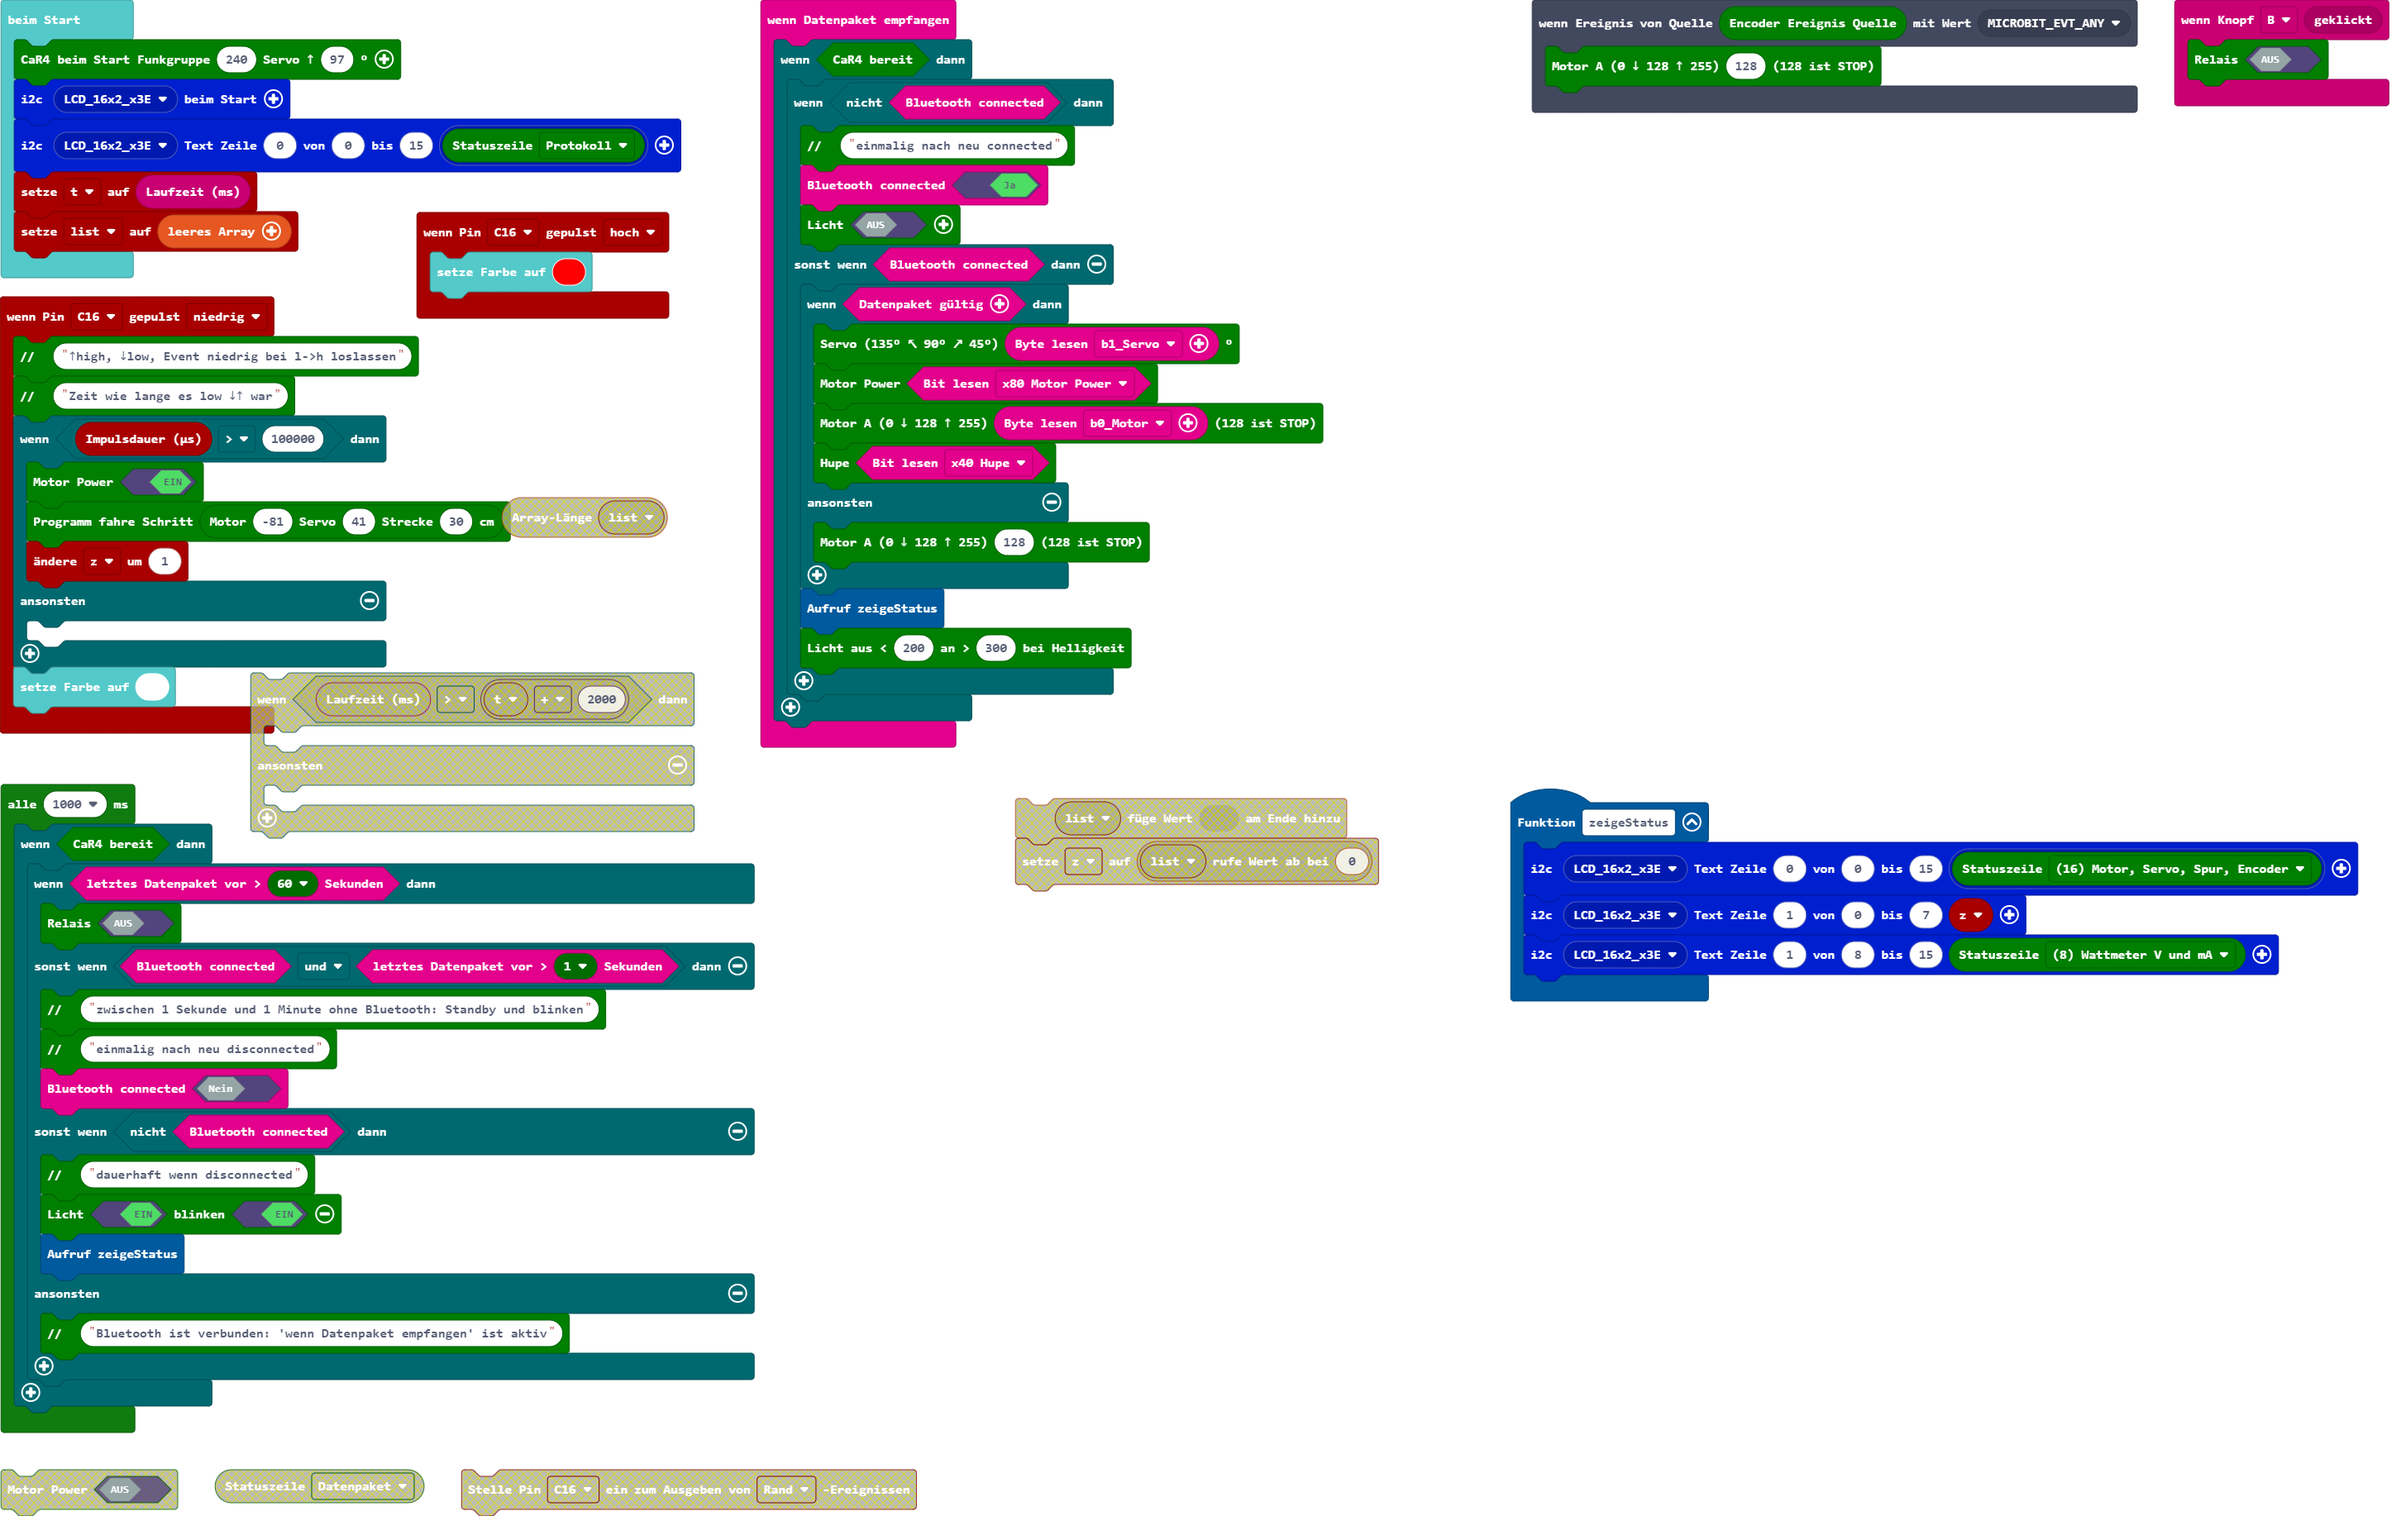
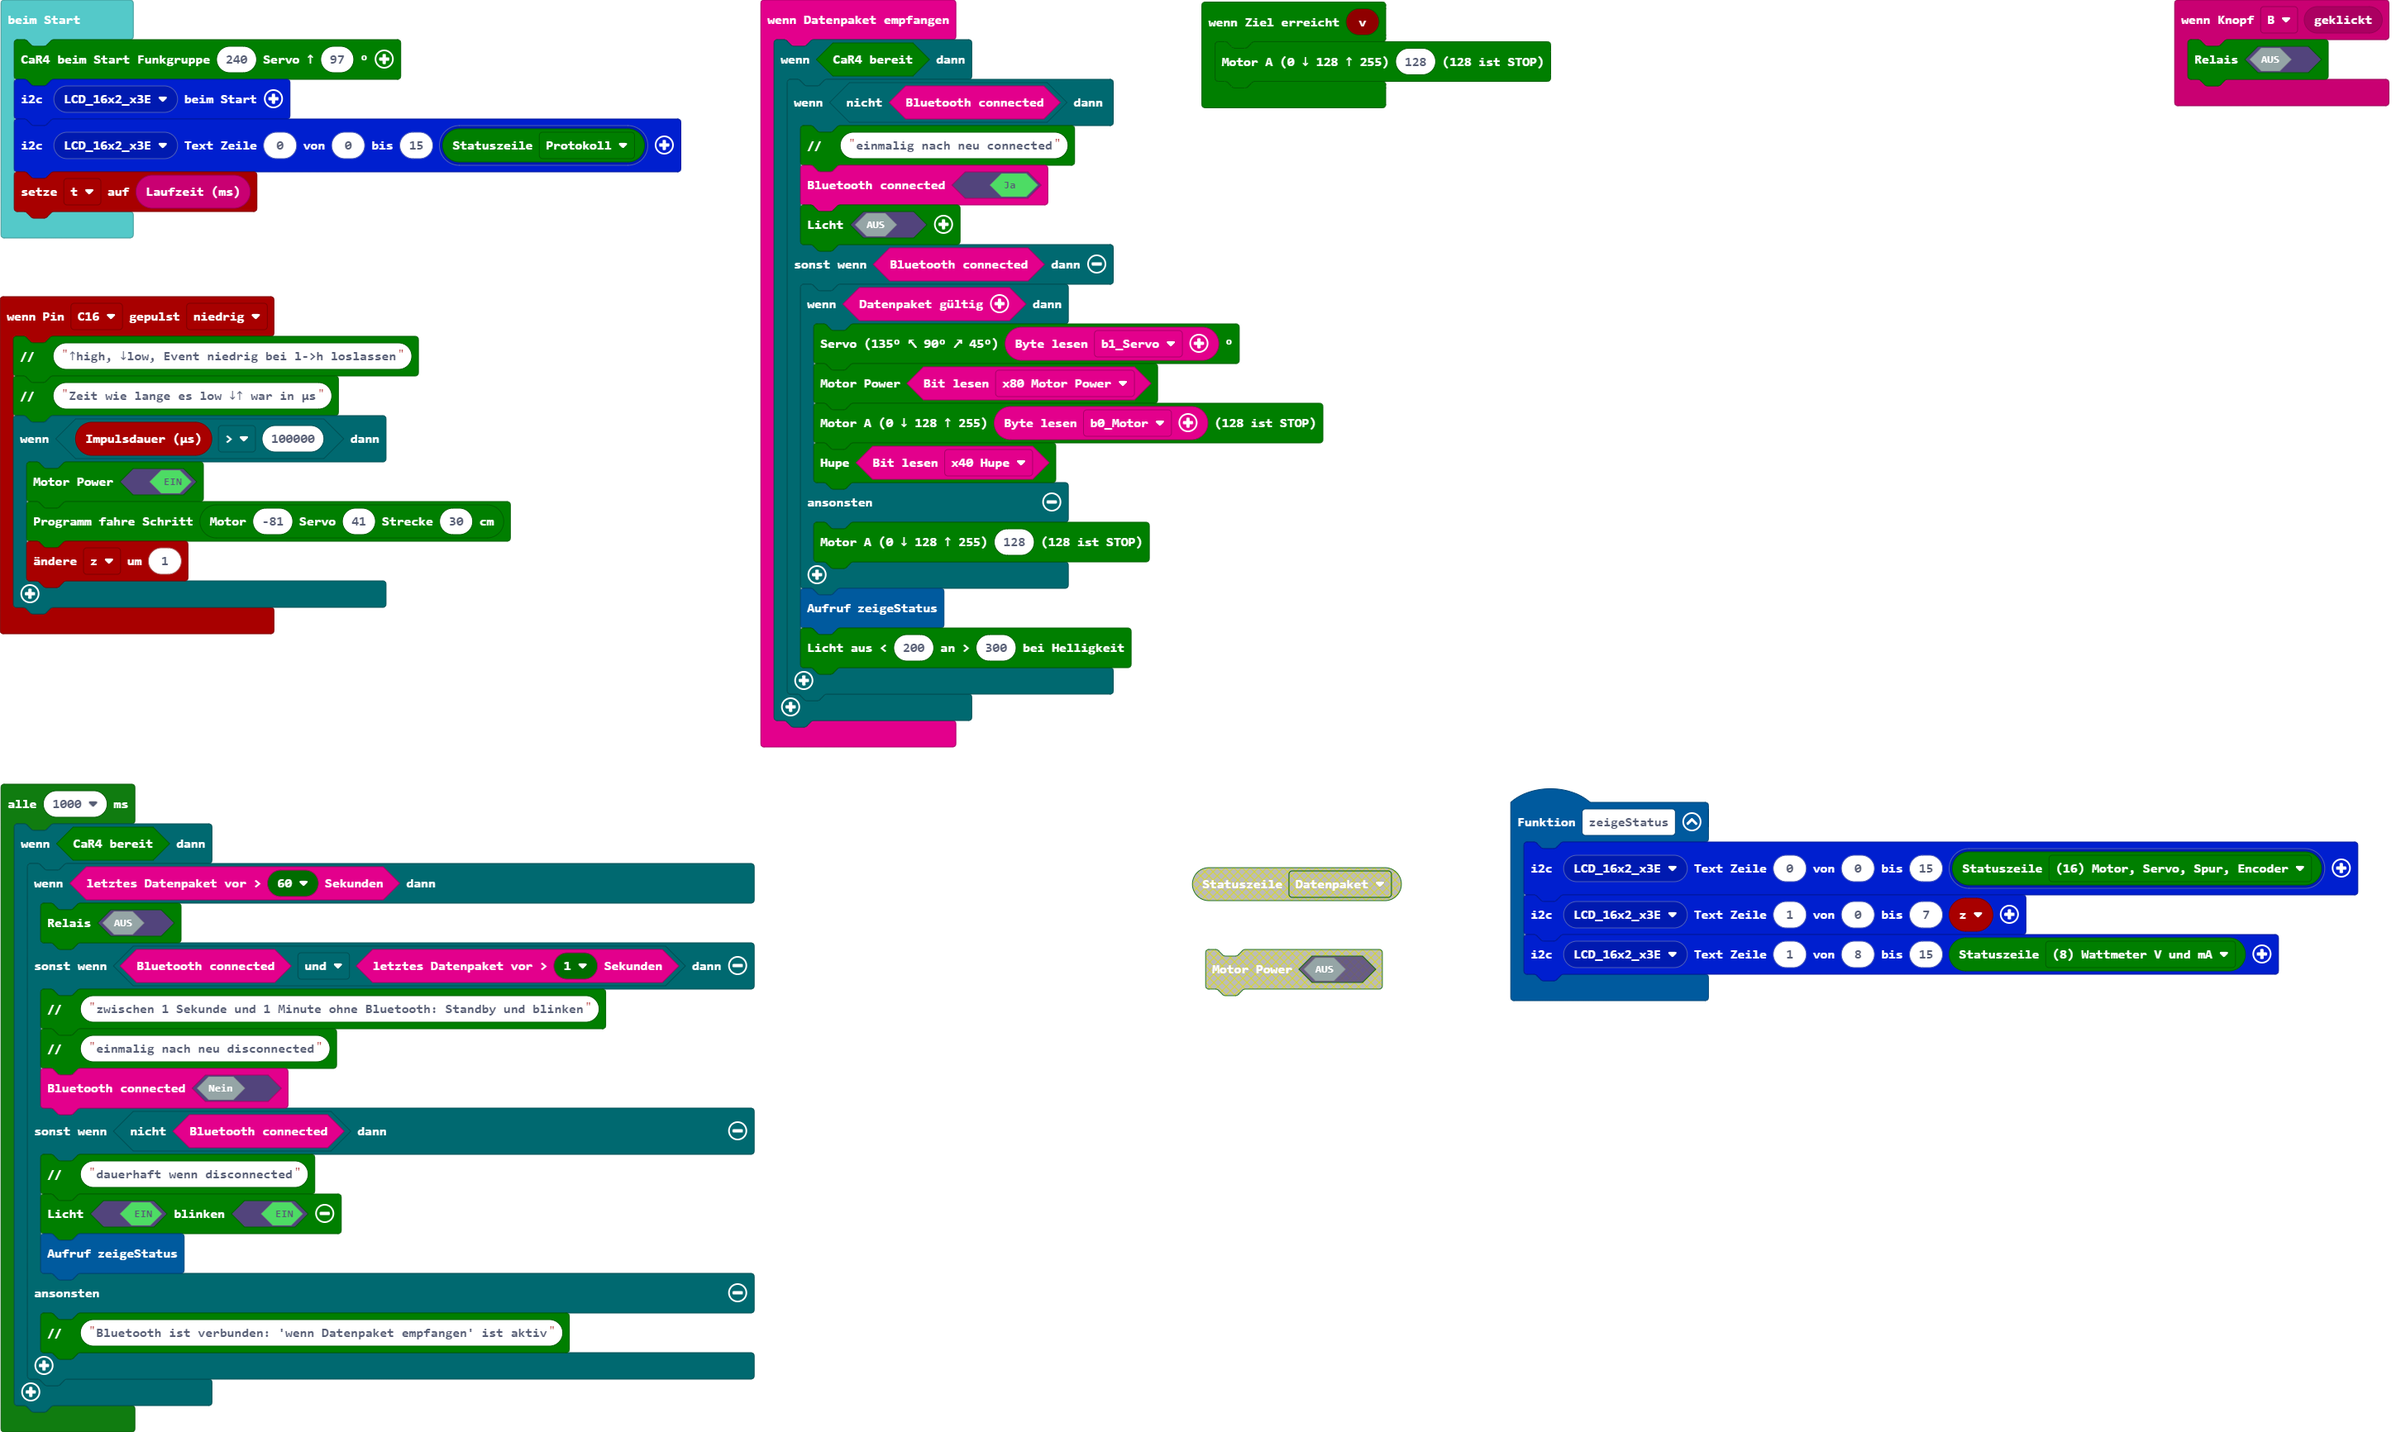
Aktualisiere pxt.json, main.blocks, main.ts

diff --git a/main.ts b/main.ts
@@ -6,23 +6,17 @@ function zeigeStatus () {
 input.onButtonEvent(Button.B, input.buttonEventClick(), function () {
     car4.relay(false)
 })
-pins.onPulsed(DigitalPin.C16, PulseValue.High, function () {
-    basic.setLedColor(0xff0000)
-})
-control.onEvent(car4.encoder_EventSource(), EventBusValue.MICROBIT_EVT_ANY, function () {
-    car4.motorA255(128)
-})
 pins.onPulsed(DigitalPin.C16, PulseValue.Low, function () {
     car4.comment("↑high, ↓low, Event niedrig bei l->h loslassen")
-    car4.comment("Zeit wie lange es low ↓↑ war")
+    car4.comment("Zeit wie lange es low ↓↑ war in µs")
     if (pins.pulseDuration() > 100000) {
         car4.motorON(true)
         car4.fahreSchritt(car4.programmSchritt(-81, 41, 30))
         z += 1
-    } else {
-    	
     }
-    basic.setLedColor(0xffffff)
+})
+car4.onEncoderStop(function (v) {
+    car4.motorA255(128)
 })
 car4.onReceivedData2(function () {
     if (car4.car4ready()) {
@@ -49,7 +43,6 @@ car4.beimStart(240, 97)
 lcd16x2rgb.initLCD(lcd16x2rgb.lcd16x2_eADDR(lcd16x2rgb.eADDR_LCD.LCD_16x2_x3E))
 lcd16x2rgb.writeText(lcd16x2rgb.lcd16x2_eADDR(lcd16x2rgb.eADDR_LCD.LCD_16x2_x3E), 0, 0, 15, lcd16x2rgb.lcd16x2_text(car4.statuszeile1(car4.eStatuszeile.start)))
 let t = input.runningTime()
-let list: number[] = []
 loops.everyInterval(1000, function () {
     if (car4.car4ready()) {
         if (car4.lastConnected(car4.car4_ePause(car4.ePause.p60))) {
